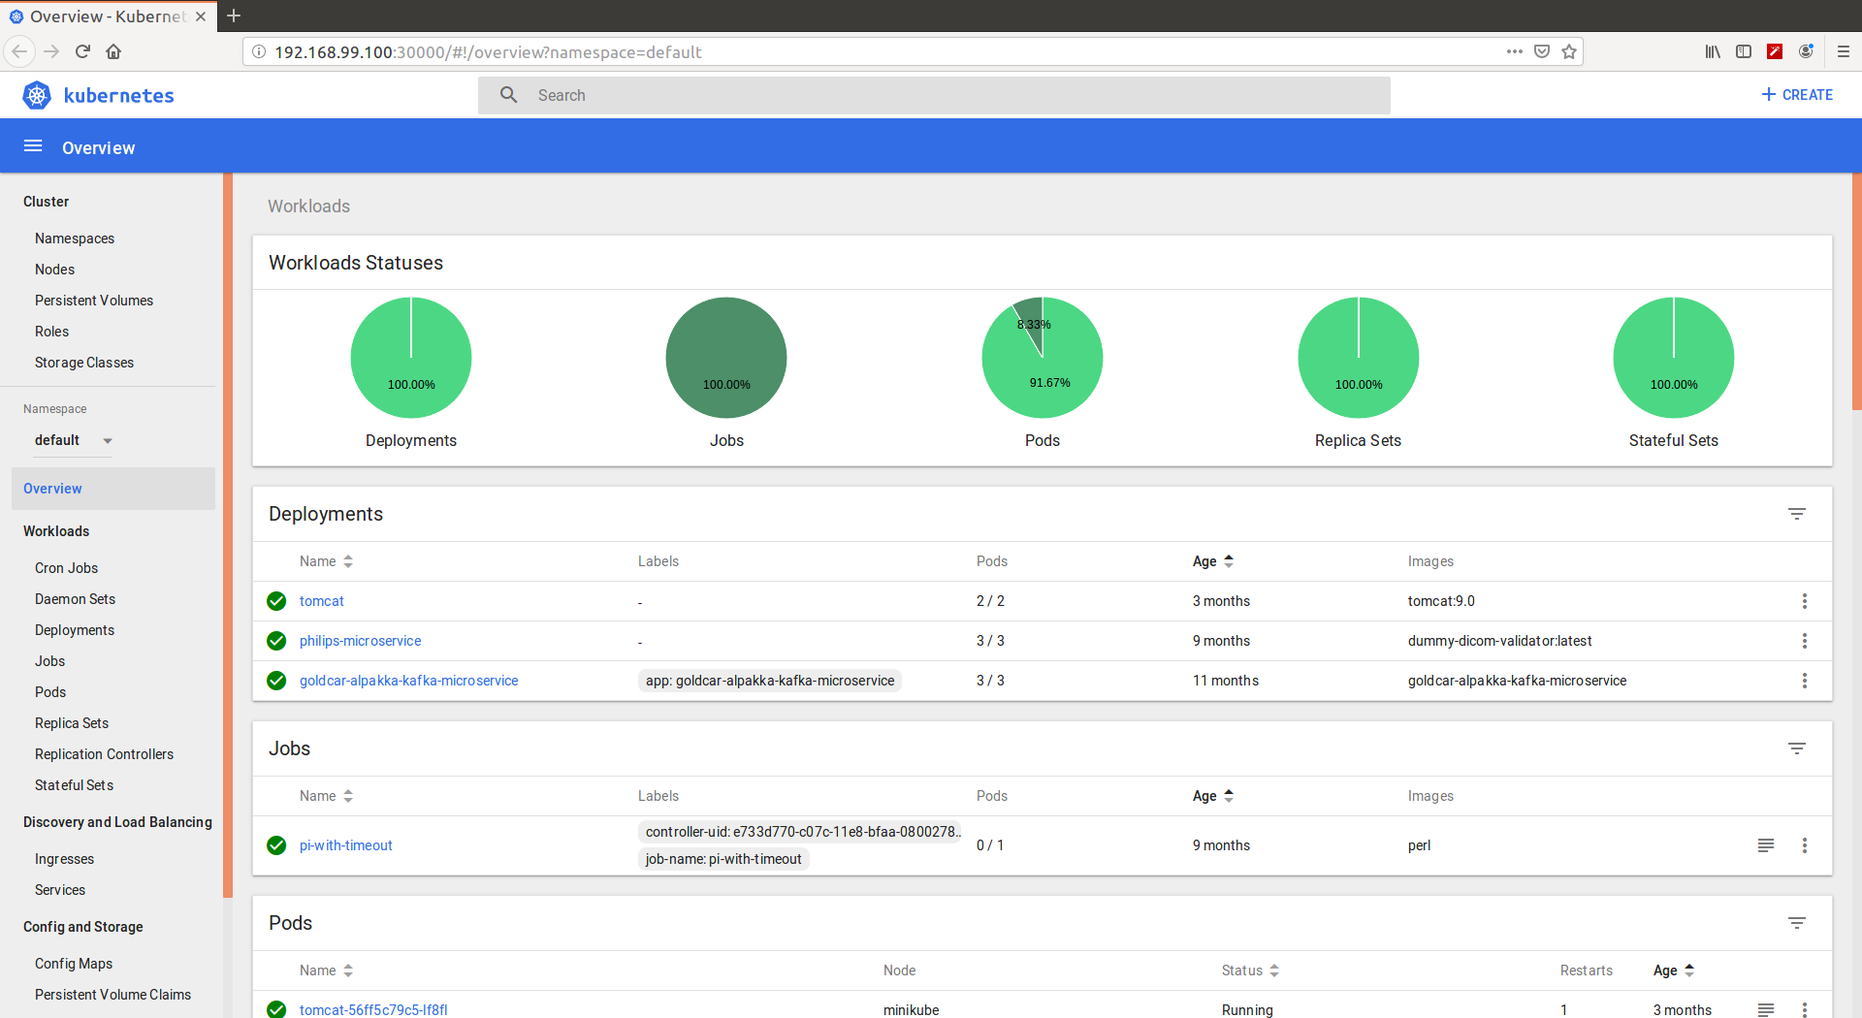
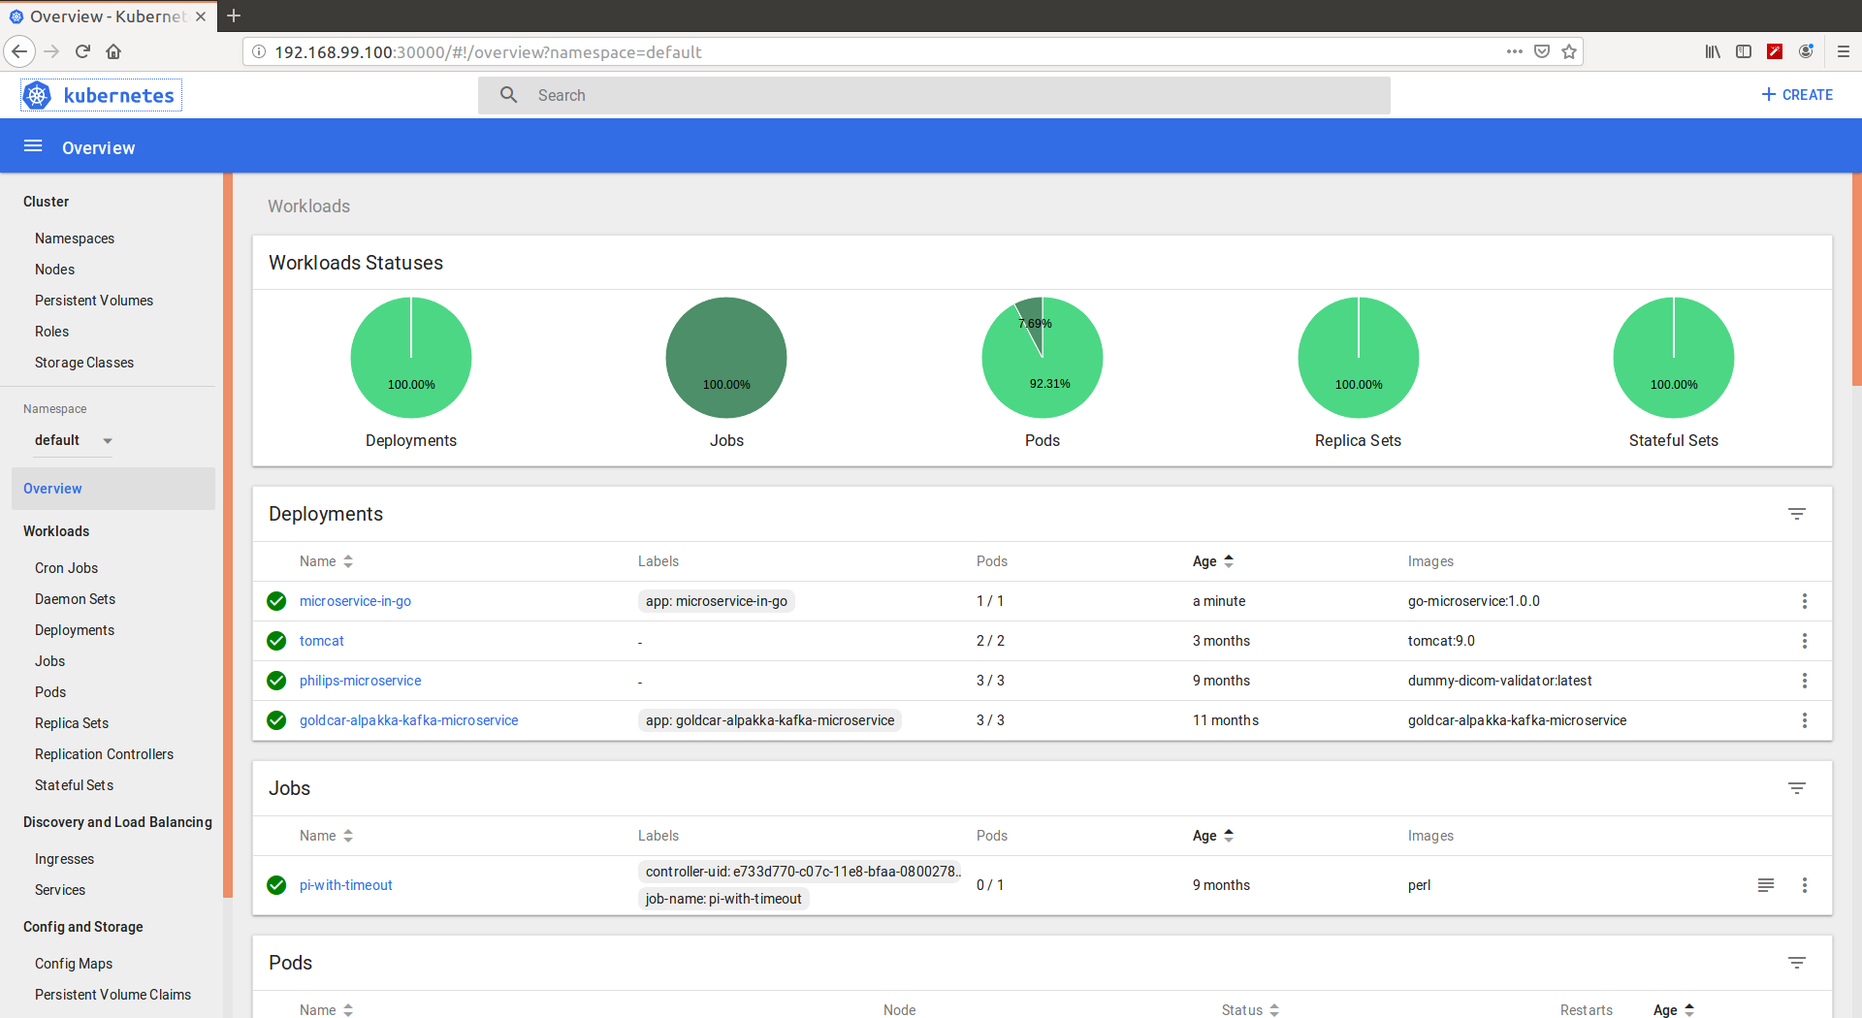
first commit

diff --git a/go_microservice_frameworks/microservice_implementation/README.md b/go_microservice_frameworks/microservice_implementation/README.md
@@ -509,6 +509,17 @@ The image has been uploaded to my Docker Hub account, arturot:
 
 ## 6 Kubernetes orchestration
 
+We are going to deploy our Docker container images into a local Kubernetes. For that we have prepared these files:
+
+```
+arturotarin@QOSMIO-X70B:~/go/src/github.com/ArturoTarinVillaescusa/go_cloud_orchestration/go_microservice_frameworks/microservice_implementation
+13:23:42 $ ls -rlht kubernetes/
+total 12K
+-rw-rw-r-- 1 arturotarin arturotarin 1,2K jul 19 13:03 k8s-deployment.yml
+-rw-rw-r-- 1 arturotarin arturotarin  223 jul 19 13:03 k8s-ingress.yml
+-rw-rw-r-- 1 arturotarin arturotarin  284 jul 19 13:03 k8s-service.yml
+```
+
 Start Minikube and check our ip:
 
 ```
@@ -556,128 +567,54 @@ Load Minikube Docker environment credentials:
 arturotarin@QOSMIO-X70B:~/go/src/github.com/ArturoTarinVillaescusa/go_cloud_orchestration/go_microservice_frameworks/microservice_implementation
 13:08:28 $ eval $(minikube docker-env)
 ```
-Check which images do I have there:
+
+Build the Docker image in the Minikube Docker environment:
+```
+arturotarin@QOSMIO-X70B:~/go/src/github.com/ArturoTarinVillaescusa/go_cloud_orchestration/go_microservice_frameworks/microservice_implementation
+13:32:54 $ docker build -t go-microservice:1.0.0 .
+```
+
+Deploy the application in Kubernetes:
+```
+arturotarin@QOSMIO-X70B:~/go/src/github.com/ArturoTarinVillaescusa/go_cloud_orchestration/go_microservice_frameworks/microservice_implementation
+13:25:18 $ kubectl apply -f kubernetes/
+deployment "microservice-in-go" created
+ingress "microservice-in-go" created
+service "microservice-in-go" created
+```
+
+List my deployments from the command line:
 
 ```
 arturotarin@QOSMIO-X70B:~/go/src/github.com/ArturoTarinVillaescusa/go_cloud_orchestration/go_microservice_frameworks/microservice_implementation
-13:09:20 $ docker images
-REPOSITORY                                      TAG                  IMAGE ID            CREATED             SIZE
-nginx                                           latest               98ebf73aba75        36 hours ago        109MB
-nginx                                           <none>               27a188018e18        3 months ago        109MB
-tomcat                                          9.0                  449eebab16a3        8 months ago        662MB
-dummy-dicom-validator                           latest               496aa2ba71c0        9 months ago        333MB
-<none>                                          <none>               1474e47af2a8        9 months ago        333MB
-<none>                                          <none>               cbc5c5695bcd        9 months ago        333MB
-<none>                                          <none>               b14931750f7d        9 months ago        288MB
-<none>                                          <none>               51bcf101f911        9 months ago        288MB
-<none>                                          <none>               39daf8f1a880        9 months ago        333MB
-<none>                                          <none>               72313623dfca        9 months ago        718MB
-<none>                                          <none>               3e425f5d2241        9 months ago        333MB
-<none>                                          <none>               7a026463e021        9 months ago        718MB
-<none>                                          <none>               4e03acded027        9 months ago        333MB
-<none>                                          <none>               9e2c116693c7        9 months ago        717MB
-<none>                                          <none>               e0a02a0ee4ce        9 months ago        333MB
-<none>                                          <none>               a65ab992d795        9 months ago        717MB
-<none>                                          <none>               b24c4b3c4df5        9 months ago        333MB
-<none>                                          <none>               d468ec1d7e60        9 months ago        717MB
-<none>                                          <none>               bec84c485ef8        9 months ago        717MB
-<none>                                          <none>               e1f1c0942efd        9 months ago        333MB
-<none>                                          <none>               af0c78ecef5d        9 months ago        333MB
-<none>                                          <none>               ba28e4eefcd5        9 months ago        718MB
-<none>                                          <none>               026bf60b3641        9 months ago        333MB
-<none>                                          <none>               dfad3ed5f86f        9 months ago        718MB
-nginx                                           <none>               bc26f1ed35cf        9 months ago        109MB
-<none>                                          <none>               e30ec50258a8        9 months ago        333MB
-<none>                                          <none>               05444eb9f831        9 months ago        718MB
-<none>                                          <none>               3590abde12d0        9 months ago        596MB
-<none>                                          <none>               2dade5299937        9 months ago        718MB
-<none>                                          <none>               b659c5f7e59d        9 months ago        596MB
-tomcat                                          8.0                  ef6a7c98d192        10 months ago       356MB
-perl                                            latest               c58a7ea6dfc4        10 months ago       885MB
-nginx                                           <none>               06144b287844        10 months ago       109MB
-goldcar-alpakka-kafka-microservice              latest               810834e8a24b        11 months ago       344MB
-<none>                                          <none>               31fe42030366        11 months ago       739MB
-<none>                                          <none>               55efa18f365a        11 months ago       344MB
-<none>                                          <none>               1d3f106a0913        11 months ago       739MB
-<none>                                          <none>               2ca0750d2abf        11 months ago       344MB
-<none>                                          <none>               c4a9284e2e8e        11 months ago       739MB
-<none>                                          <none>               9fde9189faeb        11 months ago       344MB
-openjdk                                         10.0.1-10-jre-slim   6cf6acb97a09        12 months ago       288MB
-maven                                           3.5.3-jdk-10-slim    276091e24d4f        13 months ago       596MB
-k8s.gcr.io/kube-proxy-amd64                     v1.10.0              bfc21aadc7d3        15 months ago       97MB
-k8s.gcr.io/kube-scheduler-amd64                 v1.10.0              704ba848e69a        15 months ago       50.4MB
-k8s.gcr.io/kube-controller-manager-amd64        v1.10.0              ad86dbed1555        15 months ago       148MB
-k8s.gcr.io/kube-apiserver-amd64                 v1.10.0              af20925d51a3        15 months ago       225MB
-k8s.gcr.io/etcd-amd64                           3.1.12               52920ad46f5b        16 months ago       193MB
-k8s.gcr.io/kube-addon-manager                   v8.6                 9c16409588eb        17 months ago       78.4MB
-prom/prometheus                                 v2.1.0               c8ecf7c719c1        18 months ago       112MB
-k8s.gcr.io/k8s-dns-dnsmasq-nanny-amd64          1.14.8               c2ce1ffb51ed        18 months ago       41MB
-k8s.gcr.io/k8s-dns-sidecar-amd64                1.14.8               6f7f2dc7fab5        18 months ago       42.2MB
-k8s.gcr.io/k8s-dns-kube-dns-amd64               1.14.8               80cc5ea4b547        18 months ago       50.5MB
-k8s.gcr.io/pause-amd64                          3.1                  da86e6ba6ca1        19 months ago       742kB
-gcr.io/google_containers/metrics-server-amd64   v0.2.1               9801395070f3        19 months ago       42.5MB
-k8s.gcr.io/kubernetes-dashboard-amd64           v1.8.1               e94d2f21bc0c        19 months ago       121MB
-quay.io/coreos/k8s-prometheus-adapter-amd64     v0.2.0               2c0f732478d1        20 months ago       51.9MB
-gcr.io/k8s-minikube/storage-provisioner         v1.8.1               4689081edb10        20 months ago       80.8MB
-gcr.io/google_containers/kubernetes-kafka       1.0-10.2.1           f9da8ff94c0d        2 years ago         388MB
-gcr.io/google_containers/kubernetes-zookeeper   1.0-3.4.10           5586da414c9c        2 years ago         273MB
+13:27:39 $ kubectl get deployments
+NAME                                 DESIRED   CURRENT   UP-TO-DATE   AVAILABLE   AGE
+goldcar-alpakka-kafka-microservice   3         3         3            3           331d
+microservice-in-go                   3         3         3            0           2m
+philips-microservice                 3         3         3            3           291d
+tomcat                               2         2         2            2           90d
 ```
 
-Check what is running there:
+List of the pods running:
 
 ```
 arturotarin@QOSMIO-X70B:~/go/src/github.com/ArturoTarinVillaescusa/go_cloud_orchestration/go_microservice_frameworks/microservice_implementation
-13:10:21 $ docker ps
-CONTAINER ID        IMAGE                                           COMMAND                  CREATED             STATUS              PORTS               NAMES
-4f36c5b66857        gcr.io/google_containers/metrics-server-amd64   "/metrics-server -..."   2 minutes ago       Up 2 minutes                            k8s_metrics-server_metrics-server-6fbfb84cdd-zxdl4_kube-system_a7dbd7ca-a5cb-11e8-9b6b-08002789fefc_20
-2094e306d1cb        2c0f732478d1                                    "/adapter /adapter..."   2 minutes ago       Up 2 minutes                            k8s_custom-metrics-apiserver_custom-metrics-apiserver-7dd968d85-jn2st_monitoring_2c7b47de-a5cc-11e8-9b6b-08002789fefc_22
-4a83020d32a2        e94d2f21bc0c                                    "/dashboard --inse..."   2 minutes ago       Up 2 minutes                            k8s_kubernetes-dashboard_kubernetes-dashboard-5498ccf677-9ml9p_kube-system_da0b4a48-a5c9-11e8-9b6b-08002789fefc_23
-693db9958173        4689081edb10                                    "/storage-provisioner"   2 minutes ago       Up 2 minutes                            k8s_storage-provisioner_storage-provisioner_kube-system_da1c47cb-a5c9-11e8-9b6b-08002789fefc_22
-15be3463f15e        80cc5ea4b547                                    "/kube-dns --domai..."   3 minutes ago       Up 3 minutes                            k8s_kubedns_kube-dns-86f4d74b45-7nhjk_kube-system_d93588fd-a5c9-11e8-9b6b-08002789fefc_18
-45fb9d42adb6        gcr.io/google_containers/kubernetes-kafka       "sh -c 'exec kafka..."   3 minutes ago       Up 3 minutes                            k8s_k8skafka_kafka-0_default_02d95247-c07a-11e8-bfaa-08002789fefc_14
-c78388c89c5d        bfc21aadc7d3                                    "/usr/local/bin/ku..."   3 minutes ago       Up 3 minutes                            k8s_kube-proxy_kube-proxy-s8mqd_kube-system_5ef116aa-aa15-11e9-a91a-08002789fefc_0
-7ef95d1dd2ca        k8s.gcr.io/pause-amd64:3.1                      "/pause"                 3 minutes ago       Up 3 minutes                            k8s_POD_kube-proxy-s8mqd_kube-system_5ef116aa-aa15-11e9-a91a-08002789fefc_0
-e15043eb7522        nginx                                           "nginx -g 'daemon ..."   3 minutes ago       Up 3 minutes                            k8s_task-pv-container_task-pv-pod_default_e6f0a219-c484-11e8-91a9-08002789fefc_4
-7134ab17431b        496aa2ba71c0                                    "java -jar dicom-v..."   4 minutes ago       Up 4 minutes                            k8s_philips-microservice_philips-microservice-6568ccdbd5-7b9cn_default_3b6775f3-c53e-11e8-9acb-08002789fefc_2
-4e8e04617759        449eebab16a3                                    "catalina.sh run"        4 minutes ago       Up 4 minutes                            k8s_tomcat_tomcat-56ff5c79c5-znl24_default_b6a854b7-633a-11e9-8624-08002789fefc_1
-7ea12830cfd2        k8s.gcr.io/pause-amd64:3.1                      "/pause"                 4 minutes ago       Up 4 minutes                            k8s_POD_philips-microservice-6568ccdbd5-7b9cn_default_3b6775f3-c53e-11e8-9acb-08002789fefc_2
-4d49a7845059        k8s.gcr.io/pause-amd64:3.1                      "/pause"                 4 minutes ago       Up 4 minutes                            k8s_POD_tomcat-56ff5c79c5-znl24_default_b6a854b7-633a-11e9-8624-08002789fefc_1
-9a8af4d4c026        496aa2ba71c0                                    "java -jar dicom-v..."   4 minutes ago       Up 4 minutes                            k8s_philips-microservice_philips-microservice-6568ccdbd5-ff2bf_default_3b6686da-c53e-11e8-9acb-08002789fefc_2
-49f8ab057a4a        gcr.io/google_containers/kubernetes-zookeeper   "sh -c 'start-zook..."   4 minutes ago       Up 4 minutes                            k8s_kubernetes-zookeeper_zk-0_default_92098a98-a5cf-11e8-9b6b-08002789fefc_10
-1a1db654b0b3        k8s.gcr.io/pause-amd64:3.1                      "/pause"                 4 minutes ago       Up 4 minutes                            k8s_POD_task-pv-pod_default_e6f0a219-c484-11e8-91a9-08002789fefc_4
-5a475887990f        449eebab16a3                                    "catalina.sh run"        4 minutes ago       Up 4 minutes                            k8s_tomcat_tomcat-56ff5c79c5-lf8fl_default_b6a93644-633a-11e9-8624-08002789fefc_1
-29b86d03f51f        prom/prometheus                                 "prometheus --conf..."   4 minutes ago       Up 4 minutes                            k8s_prometheus_prometheus-7dff795b9f-l2xdg_monitoring_1e77dde3-a5cc-11e8-9b6b-08002789fefc_9
-da462895ff52        k8s.gcr.io/pause-amd64:3.1                      "/pause"                 4 minutes ago       Up 4 minutes                            k8s_POD_kafka-0_default_02d95247-c07a-11e8-bfaa-08002789fefc_6
-12adbc4ac4e1        k8s.gcr.io/pause-amd64:3.1                      "/pause"                 4 minutes ago       Up 4 minutes                            k8s_POD_philips-microservice-6568ccdbd5-ff2bf_default_3b6686da-c53e-11e8-9acb-08002789fefc_2
-d8696a2fcc8a        496aa2ba71c0                                    "java -jar dicom-v..."   4 minutes ago       Up 4 minutes                            k8s_philips-microservice_philips-microservice-6568ccdbd5-ckrsq_default_3b677acc-c53e-11e8-9acb-08002789fefc_2
-7a50550643d5        810834e8a24b                                    "java -jar goldcar..."   4 minutes ago       Up 4 minutes                            k8s_goldcar-alpakka-kafka-microservice_goldcar-alpakka-kafka-microservice-dc8dbcb9f-mhf2d_default_04266ca2-a5fb-11e8-9b6b-08002789fefc_9
-182efd30d5de        k8s.gcr.io/pause-amd64:3.1                      "/pause"                 4 minutes ago       Up 4 minutes                            k8s_POD_tomcat-56ff5c79c5-lf8fl_default_b6a93644-633a-11e9-8624-08002789fefc_1
-86e28fe71dbb        810834e8a24b                                    "java -jar goldcar..."   4 minutes ago       Up 4 minutes                            k8s_goldcar-alpakka-kafka-microservice_goldcar-alpakka-kafka-microservice-dc8dbcb9f-2sxw2_default_041b7ef6-a5fb-11e8-9b6b-08002789fefc_9
-2446725d5a2a        k8s.gcr.io/pause-amd64:3.1                      "/pause"                 4 minutes ago       Up 4 minutes                            k8s_POD_philips-microservice-6568ccdbd5-ckrsq_default_3b677acc-c53e-11e8-9acb-08002789fefc_2
-5449ea5fb0b8        k8s.gcr.io/pause-amd64:3.1                      "/pause"                 4 minutes ago       Up 4 minutes                            k8s_POD_zk-0_default_92098a98-a5cf-11e8-9b6b-08002789fefc_9
-b13d676e9a5d        k8s.gcr.io/pause-amd64:3.1                      "/pause"                 4 minutes ago       Up 4 minutes                            k8s_POD_goldcar-alpakka-kafka-microservice-dc8dbcb9f-mhf2d_default_04266ca2-a5fb-11e8-9b6b-08002789fefc_9
-df90235484ae        k8s.gcr.io/pause-amd64:3.1                      "/pause"                 4 minutes ago       Up 4 minutes                            k8s_POD_goldcar-alpakka-kafka-microservice-dc8dbcb9f-2sxw2_default_041b7ef6-a5fb-11e8-9b6b-08002789fefc_9
-00fb9ac129c7        6f7f2dc7fab5                                    "/sidecar --v=2 --..."   4 minutes ago       Up 4 minutes                            k8s_sidecar_kube-dns-86f4d74b45-7nhjk_kube-system_d93588fd-a5c9-11e8-9b6b-08002789fefc_10
-8425470ae489        810834e8a24b                                    "java -jar goldcar..."   4 minutes ago       Up 4 minutes                            k8s_goldcar-alpakka-kafka-microservice_goldcar-alpakka-kafka-microservice-dc8dbcb9f-bqz9d_default_0425a088-a5fb-11e8-9b6b-08002789fefc_9
-f4958f7e9637        k8s.gcr.io/pause-amd64:3.1                      "/pause"                 4 minutes ago       Up 4 minutes                            k8s_POD_storage-provisioner_kube-system_da1c47cb-a5c9-11e8-9b6b-08002789fefc_9
-99e35930926a        k8s.gcr.io/pause-amd64:3.1                      "/pause"                 4 minutes ago       Up 4 minutes                            k8s_POD_custom-metrics-apiserver-7dd968d85-jn2st_monitoring_2c7b47de-a5cc-11e8-9b6b-08002789fefc_9
-e74b858df46c        k8s.gcr.io/pause-amd64:3.1                      "/pause"                 4 minutes ago       Up 4 minutes                            k8s_POD_prometheus-7dff795b9f-l2xdg_monitoring_1e77dde3-a5cc-11e8-9b6b-08002789fefc_9
-55b32df04098        c2ce1ffb51ed                                    "/dnsmasq-nanny -v..."   4 minutes ago       Up 4 minutes                            k8s_dnsmasq_kube-dns-86f4d74b45-7nhjk_kube-system_d93588fd-a5c9-11e8-9b6b-08002789fefc_10
-160e7bfec303        k8s.gcr.io/pause-amd64:3.1                      "/pause"                 4 minutes ago       Up 4 minutes                            k8s_POD_goldcar-alpakka-kafka-microservice-dc8dbcb9f-bqz9d_default_0425a088-a5fb-11e8-9b6b-08002789fefc_9
-7b0af6e6a898        k8s.gcr.io/pause-amd64:3.1                      "/pause"                 4 minutes ago       Up 4 minutes                            k8s_POD_metrics-server-6fbfb84cdd-zxdl4_kube-system_a7dbd7ca-a5cb-11e8-9b6b-08002789fefc_9
-91acf725c297        k8s.gcr.io/pause-amd64:3.1                      "/pause"                 4 minutes ago       Up 4 minutes                            k8s_POD_kubernetes-dashboard-5498ccf677-9ml9p_kube-system_da0b4a48-a5c9-11e8-9b6b-08002789fefc_9
-b0b983c5e716        k8s.gcr.io/pause-amd64:3.1                      "/pause"                 4 minutes ago       Up 4 minutes                            k8s_POD_kube-dns-86f4d74b45-7nhjk_kube-system_d93588fd-a5c9-11e8-9b6b-08002789fefc_9
-afa6b6991b6e        ad86dbed1555                                    "kube-controller-m..."   4 minutes ago       Up 4 minutes                            k8s_kube-controller-manager_kube-controller-manager-minikube_kube-system_eb389aa32974e264d14fcc4deed664ed_0
-7a21118650f9        704ba848e69a                                    "kube-scheduler --..."   4 minutes ago       Up 4 minutes                            k8s_kube-scheduler_kube-scheduler-minikube_kube-system_31cf0ccbee286239d451edb6fb511513_0
-fbb564b82d79        9c16409588eb                                    "/opt/kube-addons.sh"    4 minutes ago       Up 4 minutes                            k8s_kube-addon-manager_kube-addon-manager-minikube_kube-system_3afaf06535cc3b85be93c31632b765da_9
-811eb6da2e91        af20925d51a3                                    "kube-apiserver --..."   4 minutes ago       Up 4 minutes                            k8s_kube-apiserver_kube-apiserver-minikube_kube-system_7ae7fb7d367808dd5e0f3be3047b2b7a_0
-bc820d50c3d5        52920ad46f5b                                    "etcd --peer-key-f..."   4 minutes ago       Up 4 minutes                            k8s_etcd_etcd-minikube_kube-system_b0aca6fc6a477d1a0666c5a4c2697f5d_0
-bb8c34798f88        k8s.gcr.io/pause-amd64:3.1                      "/pause"                 4 minutes ago       Up 4 minutes                            k8s_POD_kube-controller-manager-minikube_kube-system_eb389aa32974e264d14fcc4deed664ed_0
-af9df598bd19        k8s.gcr.io/pause-amd64:3.1                      "/pause"                 4 minutes ago       Up 4 minutes                            k8s_POD_kube-scheduler-minikube_kube-system_31cf0ccbee286239d451edb6fb511513_0
-42a598dbb5ce        k8s.gcr.io/pause-amd64:3.1                      "/pause"                 4 minutes ago       Up 4 minutes                            k8s_POD_kube-apiserver-minikube_kube-system_7ae7fb7d367808dd5e0f3be3047b2b7a_0
-b2c99aa7f3ff        k8s.gcr.io/pause-amd64:3.1                      "/pause"                 4 minutes ago       Up 4 minutes                            k8s_POD_etcd-minikube_kube-system_b0aca6fc6a477d1a0666c5a4c2697f5d_0
-1cb79dd2ddaf        k8s.gcr.io/pause-amd64:3.1                      "/pause"                 4 minutes ago       Up 4 minutes                            k8s_POD_kube-addon-manager-minikube_kube-system_3afaf06535cc3b85be93c31632b765da_9
+13:37:55 $ kubectl get pods
+NAME                                                 READY     STATUS    RESTARTS   AGE
+goldcar-alpakka-kafka-microservice-dc8dbcb9f-2sxw2   1/1       Running   9          331d
+goldcar-alpakka-kafka-microservice-dc8dbcb9f-bqz9d   1/1       Running   9          331d
+goldcar-alpakka-kafka-microservice-dc8dbcb9f-mhf2d   1/1       Running   9          331d
+kafka-0                                              1/1       Running   14         297d
+microservice-in-go-54d84cb66d-rchwj                  1/1       Running   0          13s
+philips-microservice-6568ccdbd5-7b9cn                1/1       Running   2          291d
+philips-microservice-6568ccdbd5-ckrsq                1/1       Running   2          291d
+philips-microservice-6568ccdbd5-ff2bf                1/1       Running   2          291d
+task-pv-pod                                          1/1       Running   4          292d
+tomcat-56ff5c79c5-lf8fl                              1/1       Running   1          90d
+tomcat-56ff5c79c5-znl24                              1/1       Running   1          90d
+zk-0                                                 1/1       Running   10         331d
 ```
+
 
 Open Minikube UI:
 
